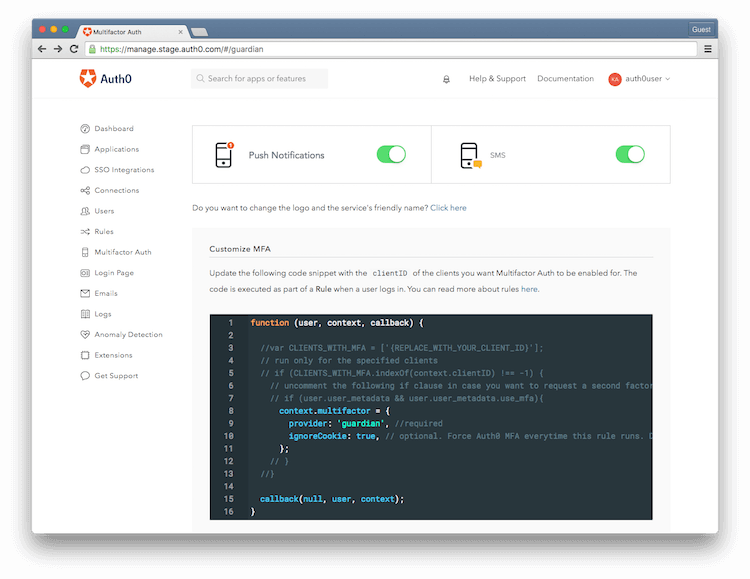
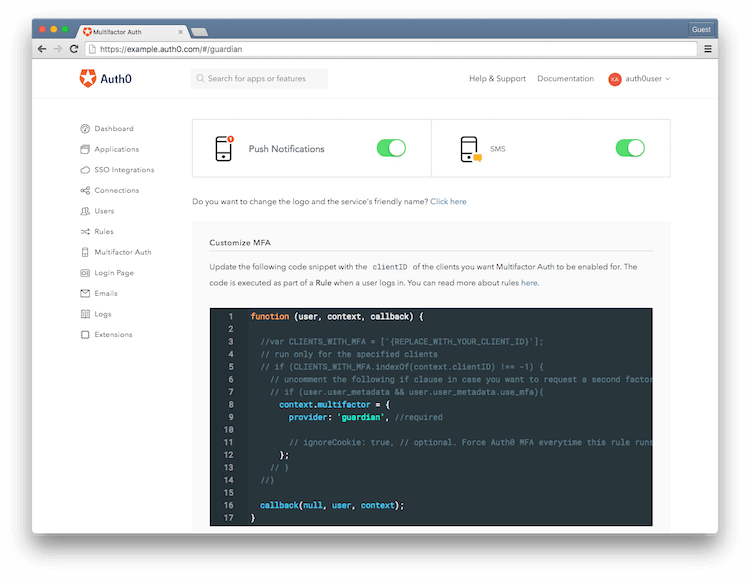
Edit details + fix screenshots

diff --git a/articles/multifactor-authentication/guardian/configuration.md b/articles/multifactor-authentication/guardian/configuration.md
@@ -9,7 +9,7 @@ Within Auth0, you may implement MFA via the **Multifactor Auth** page of the Man
 
 ![](/media/articles/mfa/guardian-dashboard.png)
 
-> Auth0 provides [built-in support](https://auth0.com/docs/multifactor-authentication#using-auth0-s-built-in-support) for MFA using Google Authenticator or Duo. You may choose to use either of these providers, in lieu of Guardian, on the **Multifactor Auth** page of the Management Dashboard.
+> Auth0 provides [built-in support](https://auth0.com/docs/multifactor-authentication#using-auth0-s-built-in-support) for MFA using Google Authenticator or Duo. You may choose to use either of these providers, in lieu of Guardian, or any code generator application, on the **Multifactor Auth** page of the Management Dashboard.
 
 ### Configuring Guardian in the Management Dashboard
 
@@ -22,7 +22,9 @@ To enable either Push Notifications or SMS verification, move the appropriate sl
 
 ![](/media/articles/mfa/guardian-both.png)
 
-Once you have enabled either option, you will be presented with the **Customize MFA** code snippet you will need to edit to ensure that MFA is applied to the appropriate Clinets. You will need the appropriate `clientID` values, and the code is executed as part of a [Rule](/rule) whenever a user logs in.
+Once you have enabled either option, you will be presented with the **Customize MFA** code snippet you may edit to ensure that MFA is applied to the appropriate Clients (by default, Auth0 enables Guardian for all accounts).
+
+If you choose to selectively apply MFA, you will need the appropriate `clientID` values, and the code is executed as part of a [Rule](/rule) whenever a user logs in.
 
 ```js
 function (user, context, callback) {
@@ -53,11 +55,11 @@ Once you have finished making your desired changes, click "Save" so that they pe
 
 ### Customizing the Guardian Screen.
 
-You may change the logo and the friendly name that is displayed to your users. To do so, you may make the appropriate settings changes from the Guardian page's link to Account Settings.
+You may change the logo and the friendly name that is displayed to your users. To do so, you may make the appropriate settings changes from the Guardian page's link to Account Settings. You may also reach the Account Settings page by clicking on your user name on the top right of the page and then selecting Account Settings from the dropdown menu that appears.
 
 ![](/media/articles/mfa/guardian-logo-and-name-settings.png)
 
 * **Friendly Name**: the name of the app that you want displayed to the users;
 * **Logo URL**: the URL that points to the logo image you want displayed to your users.
 
-![](/default-guardian-view.png)
+Auth0 recommends using a logo image that is at least 100x100 pixels, though an image that is 200x200 pixels ensures quality viewing in Retina or DPI devices.
